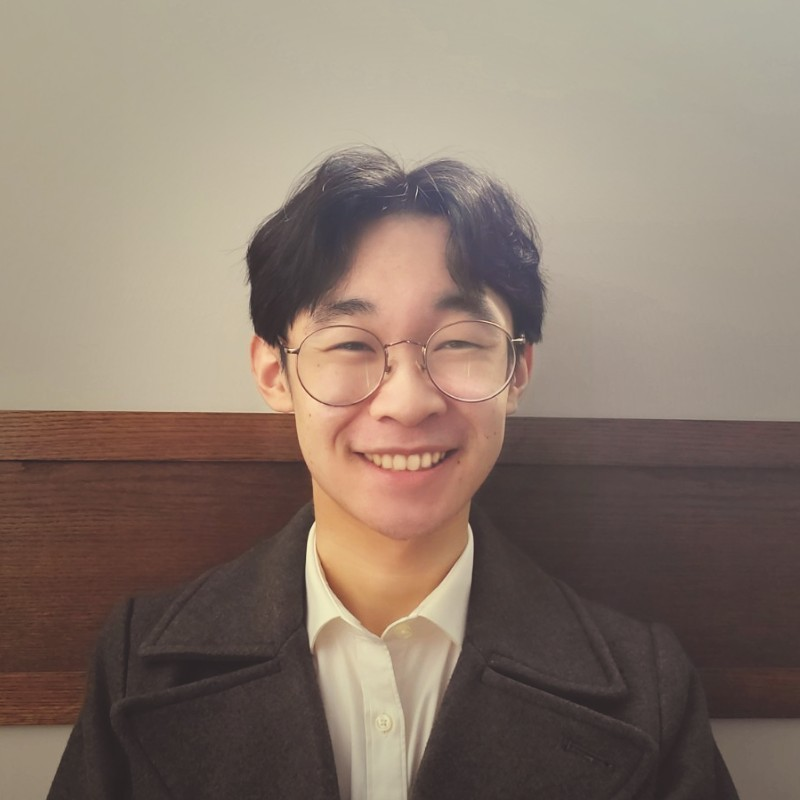
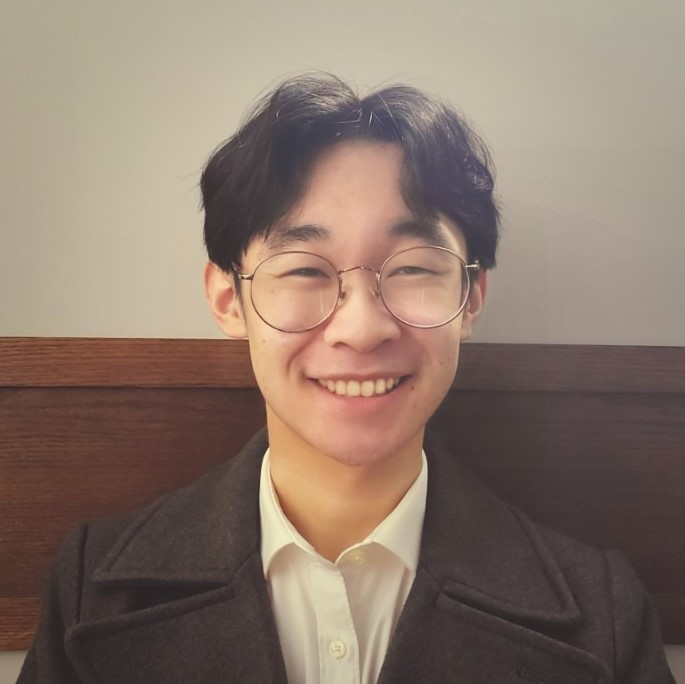
color and pfp changes

diff --git a/pages/index.js b/pages/index.js
@@ -42,9 +42,9 @@ const Page = () => {
                     <Heading as="h2" variant="page-title">
                         <code>justin ng</code>
                     </Heading>
-                    <p>Firmware Validation Co-op @ Motorola Solutions</p>
+                    <p>firmware engineer @ Solidigm</p>
                     {/* <MdOutlineLocationOn /> */}
-                    <Code colorScheme={useColorModeValue('pink', 'blue')}>Vancouver, BC</Code>
+                    <Code colorScheme={useColorModeValue('red', 'purple')}>Vancouver, BC</Code>
                 </Box>
                 <Box>
                     <Box 
@@ -60,7 +60,7 @@ const Page = () => {
                         maxWidth="100px"
                         display="inline-block"
                         borderRadius="full" 
-                        src={useColorModeValue('/images/pfp.jpg', '/images/pfp2.jpg')}
+                        src={useColorModeValue('/images/pfp2.jpg', '/images/pfp5.png')}
                         alt="Profile Picture"
                         />
                     </Box>
@@ -74,7 +74,7 @@ const Page = () => {
             bg={useColorModeValue('whiteAlpha.500', 'whiteAlpha.200')} 
             p={0.5} align="center" 
             mb={6}>
-                <code>{useColorModeValue('ouch turn the lights off >:(', 'idk what im doing lol')}</code>
+                <code>{useColorModeValue('ouch turn the lights off', 'zzz')}</code>
             </Box>
             <Section></Section>
 
@@ -88,9 +88,9 @@ const Page = () => {
             {/* <VoxelDog /> */}
             <Paragraph>
                     Hello there! I'm Justin, and I'm interested in all things firmware and embedded related (software/web stuff is kinda cool too). 
-                    I'm currently working an 8 month co-op term with Motorola Solutions, Avigilon, handling the automation and development of our test
-                    frameworks and procedures. I validate the SoC firmware, web user interfaces, manufacturing processes, and our VMS client/server applications for our security IP camera products. 
-                    After this current work term, I'll be starting a new co-op position as a Firmware Engineer with Solidigm from Jan - Aug 2023.
+                    I'm currently working an 8 month co-op term with Solidigm as a Firmware Engineer. My team is involved in the development of 
+                    Solid State Drives (SSDs) in the NAND Product Solutions Group, and we're involved in projects alongside SK Hynix following the aquisition
+                    of Intel's memory business. 
             </Paragraph>
             </Section>
 
@@ -103,7 +103,7 @@ const Page = () => {
                             <Button
                                 variant="ghost"
                                 leftIcon={<FiGithub />}
-                                colorScheme={useColorModeValue('purple', 'pink')}
+                                colorScheme={useColorModeValue('yellow', 'blue')}
                             >    
                             Github
                             </Button>
@@ -114,23 +114,23 @@ const Page = () => {
                             <Button
                                 variant="ghost"
                                 leftIcon={<FaLinkedinIn />}
-                                colorScheme={useColorModeValue('purple', 'pink')}
+                                colorScheme={useColorModeValue('yellow', 'blue')}
                             >    
                             LinkedIn
                             </Button>
                     </Link>
                 </ListItem>
-                <ListItem>
+                {/* <ListItem>
                     <Link href="https://www.instagram.com/jstn_ng/?hl=en" target="_blank">
                             <Button
                                 variant="ghost"
                                 leftIcon={<IoLogoInstagram />}
-                                colorScheme={useColorModeValue('purple', 'pink')}
+                                colorScheme={useColorModeValue('yellow', 'blue')}
                             >    
                             @jstn_ng
                             </Button>
                     </Link>
-                </ListItem>
+                </ListItem> */}
             </List>
             </Section>
 
@@ -153,7 +153,7 @@ const Page = () => {
             
             <Section delay={0.3}>
                 <Paragraph>
-                    Oh, I'm also part of an engineering design team called Mars Colony. Our current project is to prototype and design a functioning Sabatier Reactor
+                    Also, I'm part of an engineering design team called Mars Colony. Our current project is to prototype and design a functioning Sabatier Reactor
                     to refuel starships using only resources found on Mars. I'm working on the RTOS firmware for the electrical control system for the reactor, as well as some basic PCB design.
                 </Paragraph>
             </Section>
@@ -203,7 +203,7 @@ const Page = () => {
                             <Button
                                 variant="ghost"
                                 leftIcon={<TbAlien />}
-                                colorScheme={useColorModeValue('purple', 'pink')}
+                                colorScheme={useColorModeValue('yellow', 'blue')}
                             >    
                             Team Website
                             </Button>
@@ -214,7 +214,7 @@ const Page = () => {
                             <Button
                                 variant="ghost"
                                 leftIcon={<FaLinkedin />}
-                                colorScheme={useColorModeValue('purple', 'pink')}
+                                colorScheme={useColorModeValue('yellow', 'blue')}
                             >    
                             LinkedIn
                             </Button>
@@ -225,7 +225,7 @@ const Page = () => {
                             <Button
                                 variant="ghost"
                                 leftIcon={<IoLogoInstagram />}
-                                colorScheme={useColorModeValue('purple', 'pink')}
+                                colorScheme={useColorModeValue('yellow', 'blue')}
                             >    
                             @ubcmarscolony
                             </Button>
@@ -260,9 +260,6 @@ const Page = () => {
             </Paragraph>
             </Section>
 
-            <Section delay={0.5}>
-                <Code>&gt; although I do plan on developing the backend on my own ;)</Code>
-            </Section>
 
             <List>
                 <ListItem>
@@ -270,7 +267,7 @@ const Page = () => {
                             <Button
                                 variant="ghost"
                                 leftIcon={<FiGithub />}
-                                colorScheme={useColorModeValue('purple', 'pink')}
+                                colorScheme={useColorModeValue('yellow', 'blue')}
                             >    
                             craftzdog
                             </Button>
@@ -281,7 +278,7 @@ const Page = () => {
                             <Button
                                 variant="ghost"
                                 leftIcon={<AiOutlineYoutube />}
-                                colorScheme={useColorModeValue('purple', 'pink')}
+                                colorScheme={useColorModeValue('yellow', 'blue')}
                             >    
                             devaslife
                             </Button>

diff --git a/components/navbar.js b/components/navbar.js
@@ -96,7 +96,7 @@ const Navbar = props => {
           >
             <FaLinkedinIn />
             </LinkItem>
-            <LinkItem
+            {/* <LinkItem
             target="_blank"
             href="https://www.instagram.com/jstn_ng/?hl=en"
             path={path}
@@ -106,7 +106,7 @@ const Navbar = props => {
             pl={2}
           >
             <RiInstagramFill />
-          </LinkItem>
+          </LinkItem> */}
           <LinkItem href="/projects" path={path}>
             <code>projects</code>
           </LinkItem>

diff --git a/components/theme-toggle-button.js b/components/theme-toggle-button.js
@@ -13,8 +13,8 @@ const ThemeToggleButton = () => {
         exit={{ y: 20, opacity: 0 }}
         transition={{ duration: 0.2 }}>
         <IconButton aria-label="Toggle theme"
-        colorScheme={useColorModeValue('purple', 'orange')}
-        icon={useColorModeValue(<MoonIcon />, <SunIcon />)}
+        colorScheme={useColorModeValue('yellow', 'purple')}
+        icon={useColorModeValue(<SunIcon />, <MoonIcon />)}
         onClick={toggleColorMode}>
         </IconButton>
         </motion.div>

diff --git a/components/logo.js b/components/logo.js
@@ -30,7 +30,7 @@ const Logo = () => {
                         fontFamily='M PLUS Rounded 1c'
                         fontWeight="bold"
                         ml={3}>
-                            <code>jstn_ng</code>
+                            <code>ngjstn</code>
                     </Text>
                 </LogoBox>
             </a>
